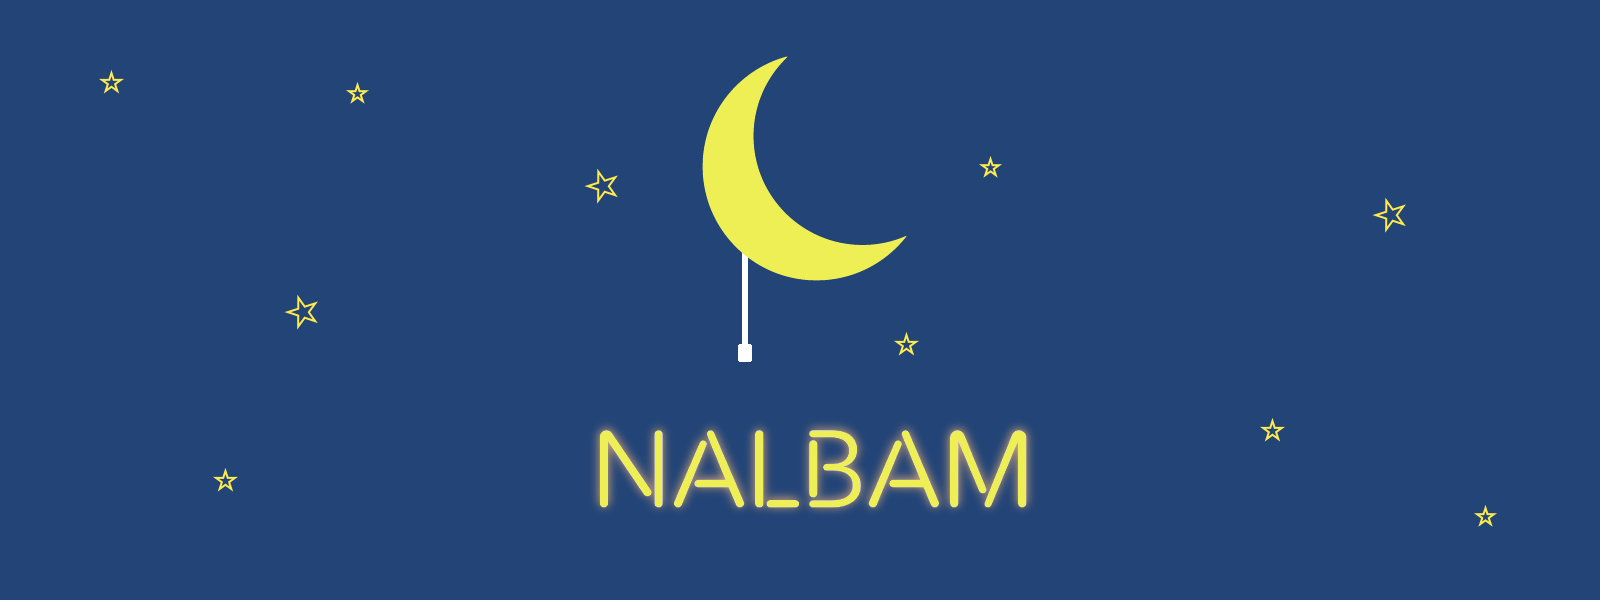
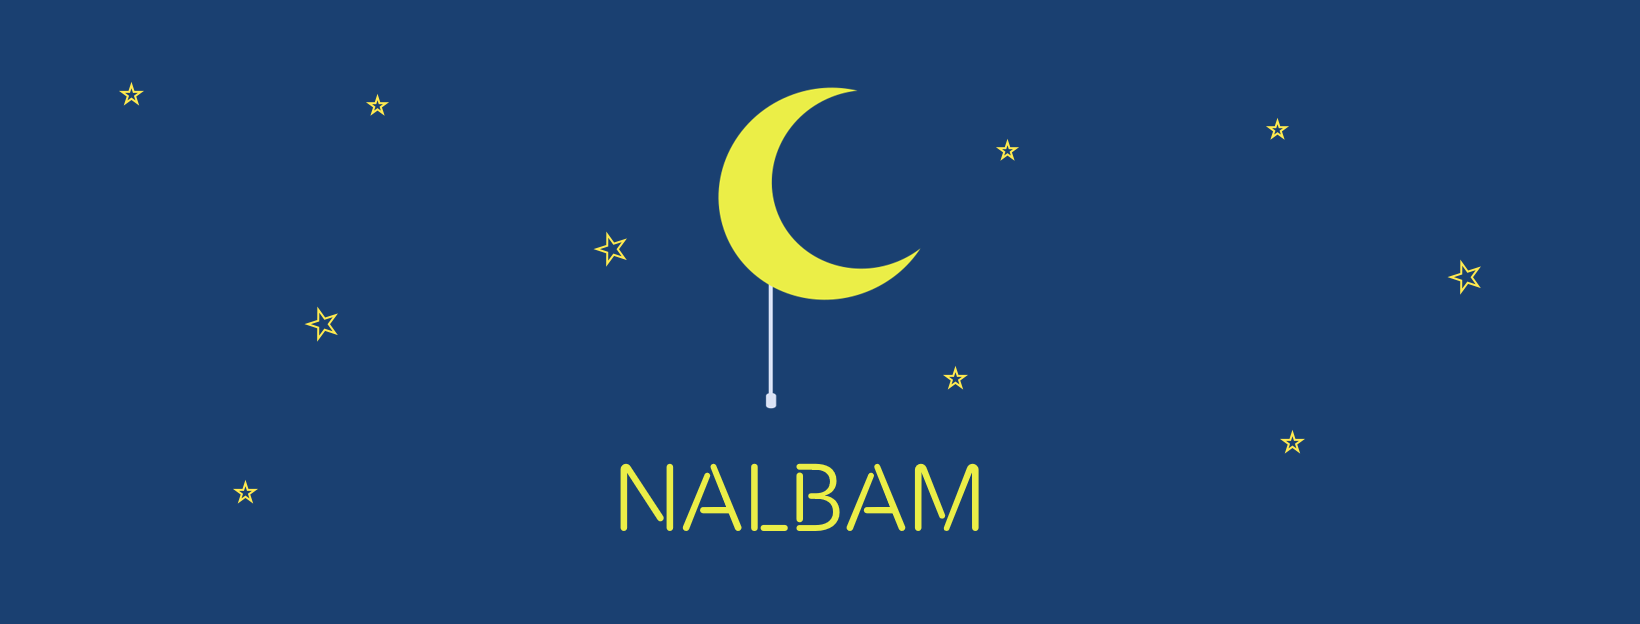
background-cover

diff --git a/web/static/style.css b/web/static/style.css
@@ -3,14 +3,24 @@
   background-size: cover;
   background-position: center center;
   background-repeat: no-repeat;
-  filter: blur(50%);
   width: 100%;
   height: 100%;
   position: fixed;
   top: 0;
   left: 0;
-  z-index: -1;
-  -webkit-filter: blur(10px);
+  z-index: -20;
+}
+
+.background-cover {
+  background: #000;
+  filter: alpha(opacity=70);
+  height: 100%;
+  left: 0;
+  opacity: .7;
+  position: absolute;
+  top: 0;
+  width: 100%;
+  z-index: -10;
 }
 
 .pop-box {

diff --git a/web/index.html b/web/index.html
@@ -13,6 +13,7 @@
 <body>
 
   <div class="background-image"></div>
+  <div class="background-cover"></div>
 
   <div class="pop-box">
     <div class="pop-container">
